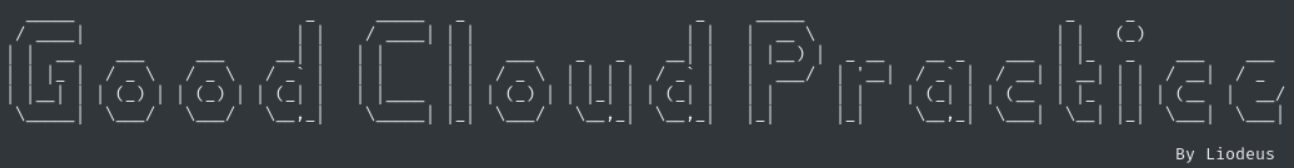
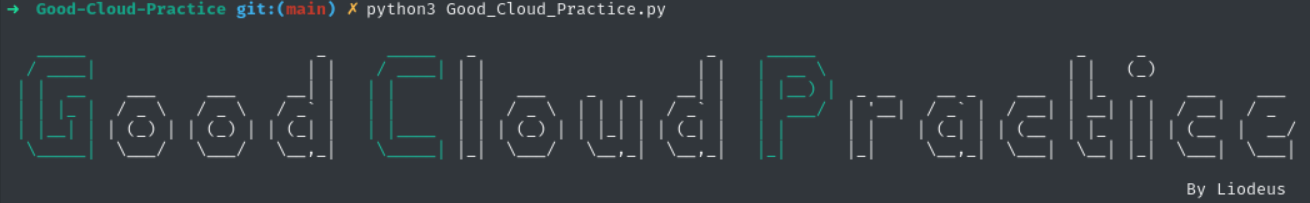
added two functions who reduce the number of lines in gce_checks : gce_reduce, gce_reduce_two (192 to 86) and addedtwo functions who reduce the number of lines in gae_checks : gae_reduce, gae_reduce_two (153 to 49), added some colors, modify both images in readme

diff --git a/functions/misc_functions.py b/functions/misc_functions.py
@@ -1,4 +1,5 @@
 import subprocess
+from  colorama import Fore, Style
 import shlex
 import yaml
 import json
@@ -10,14 +11,14 @@ def banner():
 	""""
 		Print the tool banner
 	"""
-	banner = '''
-   _____                       _      _____   _                       _     _____                          _     _               
-  / ____|                     | |    / ____| | |                     | |   |  __ \                        | |   (_)              
- | |  __    ___     ___     __| |   | |      | |   ___    _   _    __| |   | |__) |  _ __    __ _    ___  | |_   _    ___    ___ 
- | | |_ |  / _ \   / _ \   / _` |   | |      | |  / _ \  | | | |  / _` |   |  ___/  | '__|  / _` |  / __| | __| | |  / __|  / _ \
+	banner = f'''
+{Fore.CYAN}   _____ {Style.RESET_ALL}                      _    {Fore.CYAN}  _____ {Style.RESET_ALL}  _                       _    {Fore.CYAN} _____  {Style.RESET_ALL}                        _     _               
+{Fore.CYAN}  / ____|{Style.RESET_ALL}                     | |   {Fore.CYAN} / ____|{Style.RESET_ALL} | |                     | |   {Fore.CYAN}|  __ \ {Style.RESET_ALL}                       | |   (_)              
+{Fore.CYAN} | |  __ {Style.RESET_ALL}   ___     ___     __| |   {Fore.CYAN}| |     {Style.RESET_ALL} | |   ___    _   _    __| |   {Fore.CYAN}| |__) |{Style.RESET_ALL}  _ __    __ _    ___  | |_   _    ___    ___ 
+{Fore.CYAN} | | |_ |{Style.RESET_ALL}  / _ \   / _ \   / _` |   {Fore.CYAN}| |     {Style.RESET_ALL} | |  / _ \  | | | |  / _` |   {Fore.CYAN}|  ___/ {Style.RESET_ALL} | '__|  / _` |  / __| | __| | |  / __|  / _ \
 
- | |__| | | (_) | | (_) | | (_| |   | |____  | | | (_) | | |_| | | (_| |   | |      | |    | (_| | | (__  | |_  | | | (__  |  __/
-  \_____|  \___/   \___/   \__,_|    \_____| |_|  \___/   \__,_|  \__,_|   |_|      |_|     \__,_|  \___|  \__| |_|  \___|  \___|
+{Fore.CYAN} | |__| |{Style.RESET_ALL} | (_) | | (_) | | (_| |   {Fore.CYAN}| |____ {Style.RESET_ALL} | | | (_) | | |_| | | (_| |   {Fore.CYAN}| |     {Style.RESET_ALL} | |    | (_| | | (__  | |_  | | | (__  |  __/
+{Fore.CYAN}  \_____|{Style.RESET_ALL}  \___/   \___/   \__,_|   {Fore.CYAN} \_____|{Style.RESET_ALL} |_|  \___/   \__,_|  \__,_|   {Fore.CYAN}|_|     {Style.RESET_ALL} |_|     \__,_|  \___|  \__| |_|  \___|  \___|
                                                                                                                                  
                                                                                                                       By Liodeus           
 	'''
@@ -63,7 +64,7 @@ def pretty_print_mitigation(mitigation):
 	print("References :")
 	print(f"\t{mitigation['references']}\n")
 
-	print("**************************************************\n")
+	print(f"{Fore.BLUE}****************************************************************************************************{Style.RESET_ALL}\n")
 
 
 def change_project(project_id):
@@ -71,11 +72,11 @@ def change_project(project_id):
 		Change the project
 	"""
 	exec_cmd(f"gcloud config set project {project_id}")
-	print("\t\t\t\t\t\t**************************************************")
-	print("\t\t\t\t\t\t**************************************************")
-	print(f"\t\t\t\t\t\t*\t\t{project_id}\t\t *")
-	print("\t\t\t\t\t\t**************************************************")
-	print("\t\t\t\t\t\t**************************************************\n")
+	print(f"{Fore.CYAN}\t\t\t\t\t\t**************************************************{Style.RESET_ALL}")
+	print(f"{Fore.CYAN}\t\t\t\t\t\t**************************************************{Style.RESET_ALL}")
+	print(f"\t\t\t\t\t\t{Fore.CYAN}*{Style.RESET_ALL}\t\t{project_id}\t\t {Fore.CYAN}*{Style.RESET_ALL}")
+	print(f"{Fore.CYAN}\t\t\t\t\t\t**************************************************{Style.RESET_ALL}")
+	print(f"{Fore.CYAN}\t\t\t\t\t\t**************************************************{Style.RESET_ALL}\n")
 
 
 def print_report(report, mitigation_name, severity):
@@ -83,12 +84,26 @@ def print_report(report, mitigation_name, severity):
 		Print report
 	"""
 	print("")
+	print_severity(severity)
 	if report:
 		mitigation = read_mitigation(mitigation_name)
-		print(f"Severity : {severity}\n")
 		pretty_print_mitigation(mitigation)
 	else:
-		print("**************************************************\n")
+		print(f"{Fore.BLUE}****************************************************************************************************{Style.RESET_ALL}\n")
+
+
+def print_severity(severity):
+	color = ""
+	if severity == "Minor":
+		color = Fore.CYAN
+	elif severity == "Medium":
+		color = Fore.GREEN
+	elif severity == "Major":
+		color = Fore.YELLOW
+	elif severity == "Critical":
+		color = Fore.RED
+
+	print(f"Severity : {color}{severity}{Style.RESET_ALL}\n")
 
 
 def get_project_list():
@@ -179,7 +194,7 @@ def get_current_user():
 
 def report_print(string_to_print, dict_result, report, mitigation_name, severity):
 	if dict_result:
-		print(f"{string_to_print} : x")
+		print(f"{string_to_print} : {Fore.RED}x{Style.RESET_ALL}")
 		print("\tInformation :")
 		for key, value in dict_result.items():
 			if string_to_print == "GCE instance shielding":
@@ -200,5 +215,5 @@ def report_print(string_to_print, dict_result, report, mitigation_name, severity
 
 		print_report(report, mitigation_name, severity)
 	else:
-		print(f"{string_to_print} : ✓\n")
-		print("**************************************************\n")
+		print(f"{string_to_print} : {Fore.GREEN}✓{Style.RESET_ALL}\n")
+		print(f"{Fore.BLUE}****************************************************************************************************{Style.RESET_ALL}\n")

diff --git a/functions/dns_checks.py b/functions/dns_checks.py
@@ -10,12 +10,12 @@ def dnssec(cmd_list, report="False", severity="Major", mitigation_name="dnssec_m
 	if datas[0] == "API":
 		print("DNSSEC check : x")
 		print("\tAPI [dns.googleapis.com] not enabled\n")
-		print("**************************************************\n")
+		print(f"{Fore.BLUE}****************************************************************************************************{Style.RESET_ALL}\n")
 		sys.exit()
 
 	if datas[0] == "Listed":
 		print("DNSSEC check : ✓\n")
-		print("**************************************************\n")
+		print(f"{Fore.BLUE}****************************************************************************************************{Style.RESET_ALL}\n")
 	else:
 		managed_zones = [x.split('/')[-1] for x in datas]
 
@@ -42,7 +42,7 @@ def rsasha1(cmd_list, report="False", severity="Critical", mitigation_name="rsas
 	if datas[0] == "API":
 		print("RSASHA1 check : x")
 		print("\tAPI [dns.googleapis.com] not enabled\n")
-		print("**************************************************\n")
+		print(f"{Fore.BLUE}****************************************************************************************************{Style.RESET_ALL}\n")
 		sys.exit()
 
 	managed_zones = [x.split('/')[-1] for x in datas]
